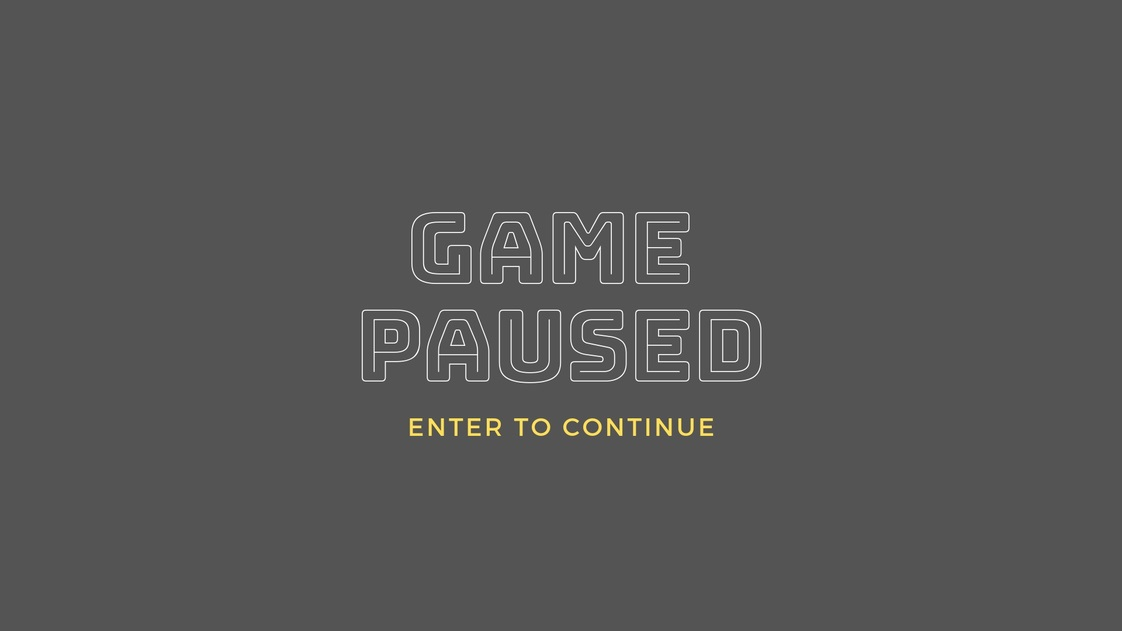
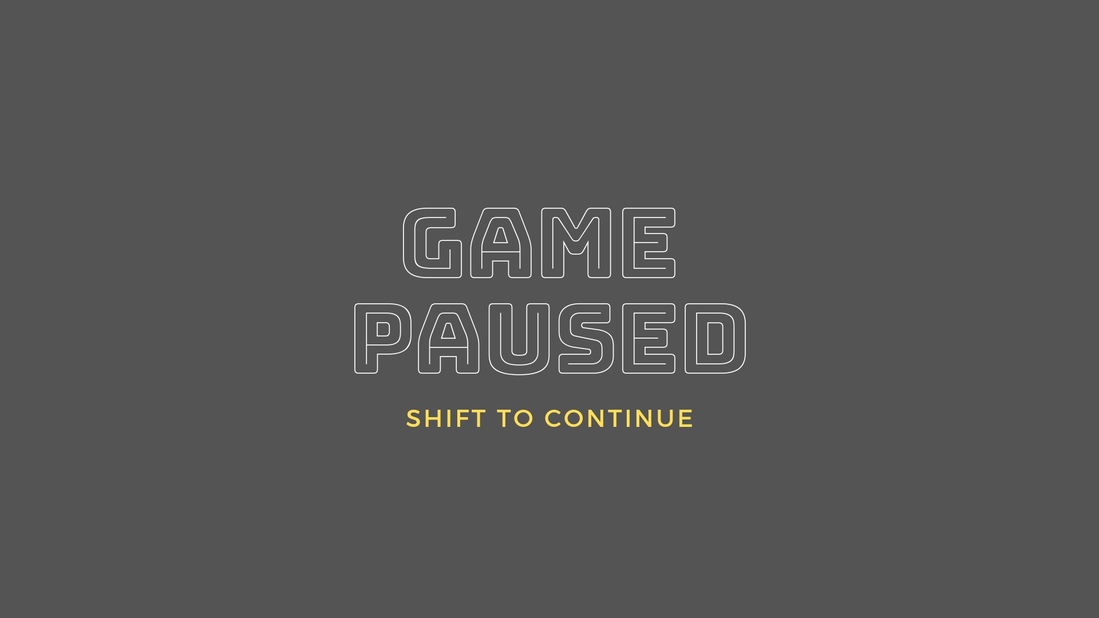
Se movio la logica principal del juego a un metodo dentro de tick y se corrigio un bug cuando la araña chocaba con un edificio

diff --git a/src/juego/Juego.java b/src/juego/Juego.java
@@ -20,12 +20,13 @@ public class Juego extends InterfaceJuego {
 
     private Entorno entorno;
     private Exterminador exterminador;
+    private String jugador;
+    private Scanner teclado;
     private List<Arania> aranias;
     private List<Edificio> edificios;
     private List<Telarania> telaraniasLanzadas;
     private List<Disparo> disparos;
     private List<Mina> minas;
-    private String jugador;
     private int ticks;
     private int tiempoDeGeneradoDeAranias;
     private int nivel;
@@ -35,7 +36,6 @@ public class Juego extends InterfaceJuego {
     private boolean seCambiaDeNivel;
     private boolean finalizoJuego;
     private static File records;
-    private Scanner teclado;
     private static Image imgFondo = Herramientas.cargarImagen("recursos/fondo.jpg");
     private static Image imgGameOver = Herramientas.cargarImagen("recursos/gameover.png");
     private static Image imgPausa = Herramientas.cargarImagen("recursos/pausa.jpg");
@@ -59,7 +59,6 @@ public class Juego extends InterfaceJuego {
         System.out.print("Nombre del jugador: ");
         this.jugador = teclado.next();
 
-        //Toma la ruta relativa del archivo(Es diferente en cada PC)
         String direccion = new File("src/recursos/records.txt").getAbsolutePath();
         this.records = new File(direccion);
 
@@ -76,77 +75,14 @@ public class Juego extends InterfaceJuego {
                 reiniciarJuego();
             }
         } else if (!juegoPausado) {
-            this.ticks++;
-            this.entorno.dibujarImagen(imgFondo, entorno.ancho() / 2, entorno.alto() / 2, 0, 0.9);
-            dibujarEdificios();
-
-            entorno.cambiarFont("Arial", 18, Color.GREEN);
-            entorno.escribirTexto("Vidas: " + exterminador.vidas(), 25, 20);
-            entorno.escribirTexto("Puntos: " + exterminador.puntos(), 700, 20);
-
-            exterminador.dibujar(entorno);
-
-            if (this.ticks % tiempoDeGeneradoDeAranias == 0) {
-                generarAranias();
-            }
-            dibujarAranias();
-
-            generarTelaranias();
-            dibujarTelaranias();
-
-            //Modificados
-            verificarImpactoDeProyectiles(entorno, aranias, edificios);
-            verificarExplosionesDeMinas();
-            dibujarExplosiones();
-            eliminarMinasExplotadas();
-
-            //********** Acciones del exterminador **********
-            //Modificados
-            if (entorno.sePresiono('m')) {
-                minas.add(exterminador.lanzarMina());
-
-            }
-            dibujarMinas();
-
-            if (entorno.sePresiono(entorno.TECLA_ESPACIO)) {
-                disparos.add(exterminador.disparar());
-            }
-            dibujarDisparos();
-
-            //********** Moviminetos del exterminador **********
-            if (entorno.estaPresionada(entorno.TECLA_ARRIBA)) {
-                exterminador.moverse(entorno, edificios, this.telaraniasLanzadas);
-            }
-
-            if (entorno.estaPresionada(entorno.TECLA_DERECHA)) {
-                exterminador.girarHaciaDerecha();
-            }
-
-            if (entorno.estaPresionada(entorno.TECLA_IZQUIERDA)) {
-                exterminador.girarHaciaIzquierda();
-            }
-
-            //********** Pausa de juego ********** 
-            if (entorno.sePresiono(entorno.TECLA_ENTER)) {
-                juegoPausado = true;
-            }
-
-            entorno.escribirTexto("Nivel: " + nivel, 700, 40);
-            if (exterminador.puntos() >= 1 && exterminador.puntos() / objetivo_AraniasAexterminar == 1) {
-                seCambiaDeNivel = true;
-                aumentarNivel();
-            }
-
-            if (araniaAlcanzoAlExterminador()) {
-                finalizarJuego();
-                return;
-            }
+            jugar(entorno);
         } else {
             entorno.dibujarImagen(imgPausa, 400, 300, 0, 1);
-            if (entorno.sePresiono(entorno.TECLA_ENTER)) {
+            if (entorno.sePresiono(entorno.TECLA_SHIFT)) {
                 juegoPausado = false;
             }
         }
+
     }
 
     @SuppressWarnings("unused")
@@ -155,6 +91,75 @@ public class Juego extends InterfaceJuego {
     }
 
     //********** Metodos nuevos y corregidos **********
+    private void jugar(Entorno entorno) {
+        this.ticks++;
+        this.entorno.dibujarImagen(imgFondo, entorno.ancho() / 2, entorno.alto() / 2, 0, 0.9);
+        dibujarEdificios();
+
+        entorno.cambiarFont("Arial", 18, Color.GREEN);
+        entorno.escribirTexto("Vidas: " + exterminador.vidas(), 25, 20);
+        entorno.escribirTexto("Puntos: " + exterminador.puntos(), 700, 20);
+
+        exterminador.dibujar(entorno);
+
+        if (this.ticks % tiempoDeGeneradoDeAranias == 0) {
+            generarAranias();
+        }
+        dibujarAranias();
+
+        generarTelaranias();
+        dibujarTelaranias();
+
+        //Modificados
+        verificarImpactoDeProyectiles(entorno, aranias, edificios);
+        verificarExplosionesDeMinas();
+        dibujarExplosiones();
+        eliminarMinasExplotadas();
+
+        //********** Acciones del exterminador **********
+        //Modificados
+        if (entorno.sePresiono('m')) {
+            minas.add(exterminador.lanzarMina());
+
+        }
+        dibujarMinas();
+
+        if (entorno.sePresiono(entorno.TECLA_ESPACIO)) {
+            disparos.add(exterminador.disparar());
+        }
+        dibujarDisparos();
+
+        //********** Moviminetos del exterminador **********
+        if (entorno.estaPresionada(entorno.TECLA_ARRIBA)) {
+            exterminador.moverse(entorno, edificios, this.telaraniasLanzadas);
+        }
+
+        if (entorno.estaPresionada(entorno.TECLA_DERECHA)) {
+            exterminador.girarHaciaDerecha();
+        }
+
+        if (entorno.estaPresionada(entorno.TECLA_IZQUIERDA)) {
+            exterminador.girarHaciaIzquierda();
+        }
+
+        //********** Pausa de juego ********** 
+        if (entorno.sePresiono(entorno.TECLA_SHIFT)) {
+            juegoPausado = true;
+        }
+
+        entorno.escribirTexto("Nivel: " + nivel, 700, 40);
+        if (exterminador.puntos() >= 1 && exterminador.puntos() / objetivo_AraniasAexterminar == 1) {
+            seCambiaDeNivel = true;
+            aumentarNivel();
+        }
+
+        if (araniaAlcanzoAlExterminador()) {
+            finalizarJuego();
+            return;
+        }
+
+    }
+
     public void verificarImpactoDeProyectiles(Entorno e, List<Arania> aranias, List<Edificio> edificios) {
         Iterator<Disparo> i_Disparos = this.disparos.iterator();
         while (i_Disparos.hasNext()) {
@@ -274,7 +279,7 @@ public class Juego extends InterfaceJuego {
         this.finalizoJuego = false;
         reposicionarEdificios();
 
-        tick();
+        jugar(entorno);
     }
 
     private void aumentarNivel() {
@@ -398,7 +403,7 @@ public class Juego extends InterfaceJuego {
         return false;
     }
 
-//********** Generado de figuras **********
+    //********** Generado de figuras **********
     public void generarEdificios() {
         int numEdificiosAgenerar = (int) (Math.random() * (8 - 4 + 1) + 4);
         int totalEdificios = 0;
@@ -444,7 +449,7 @@ public class Juego extends InterfaceJuego {
         }
     }
 
-//********** Dibujado de figuras **********
+    //********** Dibujado de figuras **********
     public void dibujarTelaranias() {
         if (!this.telaraniasLanzadas.isEmpty()) {
             Iterator<Telarania> i_telarania = this.telaraniasLanzadas.iterator();
@@ -484,7 +489,7 @@ public class Juego extends InterfaceJuego {
         }
     }
 
-    //MOdificado
+    //Modificado
     public void dibujarMinas() {
         if (!minas.isEmpty()) {
             for (Mina mina : minas) {

diff --git a/src/juego/Arania.java b/src/juego/Arania.java
@@ -10,8 +10,8 @@ public class Arania {
     private double x;
     private double y;
     private double direccion;
-    private static Image imgArania = Herramientas.cargarImagen("recursos/arania.png");
     private double anguloImgArania;
+    private static Image imgArania = Herramientas.cargarImagen("recursos/arania.png");
 
     public Arania(double x, double y, double direccion, double anguloImgArania) {
         this.x = x;
@@ -22,19 +22,16 @@ public class Arania {
 
     //Modificado
     public void perseguirExterminador(Exterminador ext, Entorno e, List<Edificio> edificios) {
-        double cos = this.x - ext.getX();
-        double sen = this.y - ext.getY();
-
-        direccion = Math.atan2(sen, cos);
-
-        this.x -= Math.cos(direccion) * 0.5;
-        this.y -= Math.sin(direccion) * 0.5;
-        
         if (chocaConUnEdifico(edificios)) {
-            direccion += 0.3;
-            
-            this.x -= Math.cos(direccion + Math.PI) * 0.5;
-            this.y -= Math.sin(direccion + Math.PI) * 0.5;
+            direccion += 1;
+            this.x -= Math.cos(direccion) * 1;
+            this.y -= Math.sin(direccion) * 1;
+        } else {
+            double cos = this.x - ext.getX();
+            double sen = this.y - ext.getY();
+            direccion = Math.atan2(sen, cos);
+            this.x -= Math.cos(direccion) * 0.5;
+            this.y -= Math.sin(direccion) * 0.5;
         }
         chocaConVentana(e);
     }
@@ -60,8 +57,12 @@ public class Arania {
 
     private boolean chocaConUnEdifico(List<Edificio> edificios) {
         for (Edificio edificio : edificios) {
-            double distancia = FuncionesAuxiliares.calcularDistancia(this.x, this.y, edificio.getX(), edificio.getY());
-            if (distancia <= (Edificio.getAnchoImgEdificio() / 2)) {
+            double distancia = FuncionesAuxiliares.calcularDistancia(
+                    this.x,
+                    this.y,
+                    edificio.getX(),
+                    edificio.getY());
+            if (distancia <= (Arania.getAnchoImgArania() / 3 + Edificio.getAnchoImgEdificio() / 3)) {
                 return true;
             }
         }

diff --git a/src/juego/Exterminador.java b/src/juego/Exterminador.java
@@ -11,9 +11,9 @@ public class Exterminador {
     private double y;
     private double direccion;
     private int vidas;
+    private int araniasExterminadas;
     private double anguloImgExterminador;
     private static Image imgExterminador = Herramientas.cargarImagen("recursos/heroe.png");
-    private int araniasExterminadas;
 
     public Exterminador(Entorno e) {
         this.x = e.ancho() / 2;
@@ -100,7 +100,8 @@ public class Exterminador {
 
     private boolean chocaConEdificio(List<Edificio> edificios) {
         for (Edificio edificio : edificios) {
-            double distancia = FuncionesAuxiliares.calcularDistancia(this.x, this.y, edificio.getX(), edificio.getY());
+            double distancia = FuncionesAuxiliares.calcularDistancia(
+                    this.x,this.y,edificio.getX() ,edificio.getY());
             if (distancia <= (Edificio.getAnchoImgEdificio() / 2)) {
                 return true;
             }

diff --git a/src/juego/Telarania.java b/src/juego/Telarania.java
@@ -6,9 +6,9 @@ import java.awt.Image;
 
 public class Telarania {
 
+    private int tiempoDeVida;
     private double x;
     private double y;
-    private int tiempoDeVida;
     private static Image imgTelarania = Herramientas.cargarImagen("recursos/telarania.png");
 
     public Telarania(double x, double y) {
